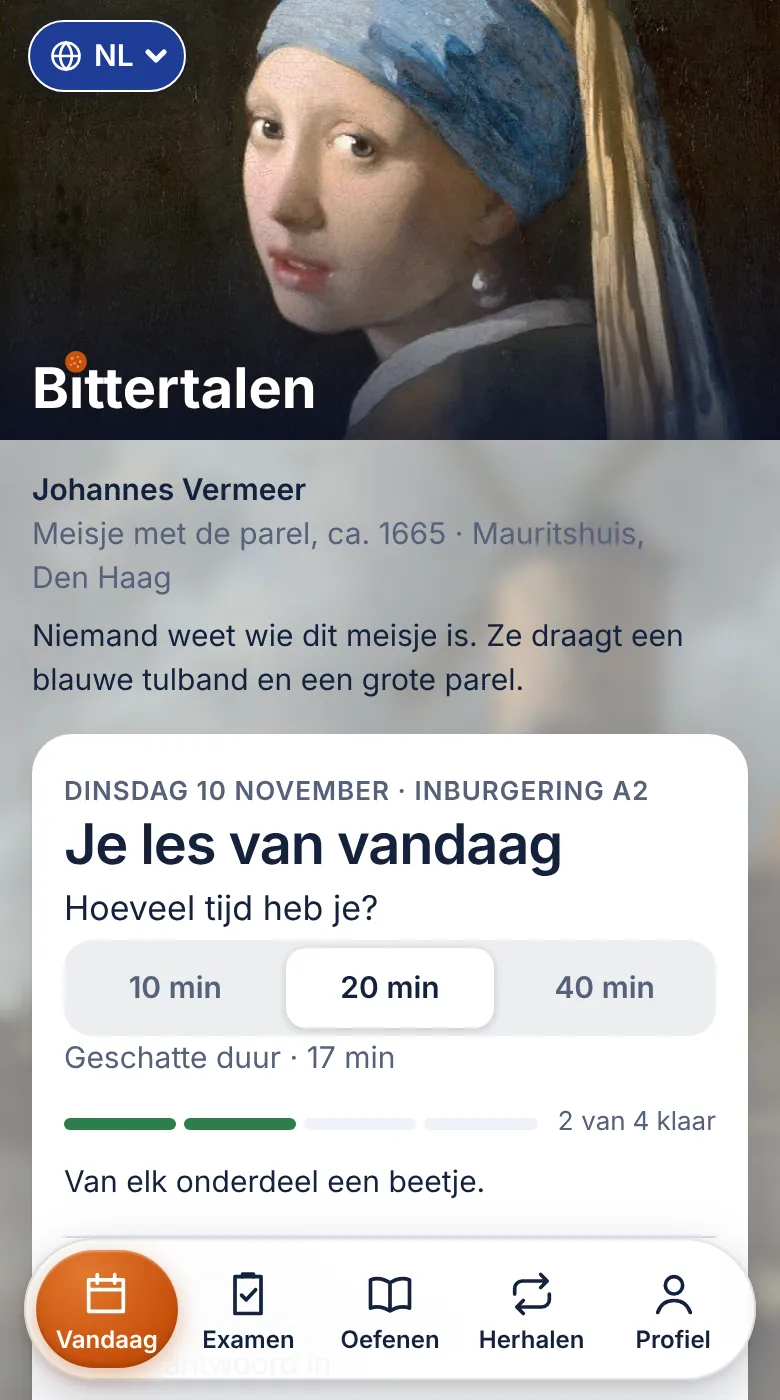
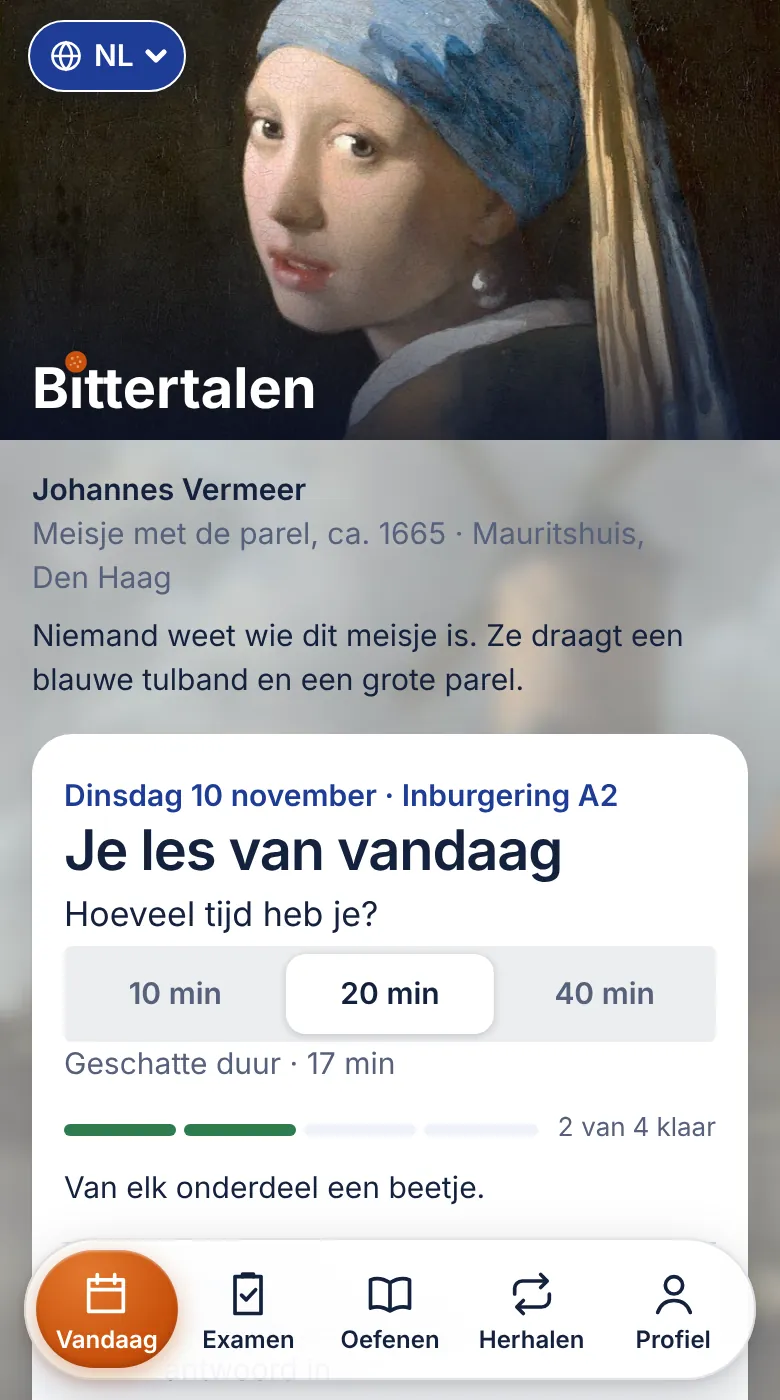
Examenblad: the exam form's look across the app and the homepage
The user chose "Examenblad" from four designs for the answer screen, as
the others still looked generated. Options are set like the exam form: a
letter A, B, C in a square box, rows between hairlines; a marked answer's
box turns green with a check or red with a cross while the text stays
ink, and a proefexamen choice fills it oranje. The feedback sheet is
square under an ink rule.

The rest follows: controls are nearly square (4 px, small things 3 px)
while tiles keep their round corners; labels are sentence case in cobalt
instead of small grey capitals. The homepage gets the same corners and
label, and its screenshots are retaken.

Claude-Session: https://claude.ai/code/session_0157tTv7UowioX1D2EjmBQZR

diff --git a/oefenen.html b/oefenen.html
@@ -37,7 +37,7 @@ if(navigator.serviceWorker){navigator.serviceWorker.addEventListener("message",f
    Type: the phone's own system font (SF Pro on iPhone), so it reads like a native app. */
 :root{
   /* round corners, as in the login window (the user's wish): tiles, controls (buttons, fields, options), small things */
-  --r:20px; --rc:14px; --rs:10px;
+  --r:20px; --rc:4px; --rs:3px;
   /* type, the iOS text styles: caption 12, footnote 13, subhead 15, body 17, title 3 20, title 2 22, title 1 28 */
   --fs-xs:12px; --fs-s:13px; --fs-m:15px; --fs-b:17px; --fs-l:20px; --fs-xl:22px; --fs-xxl:28px;
   --bg:#FBFCFE; --surface:#EEF2FA; --wash:#C9D6F2; --ink:#14213D; --soft:#56617C; --line:#D6DDEB;
@@ -144,7 +144,7 @@ h2{display:flex;align-items:center;gap:10px;font-size:var(--fs-xl);font-weight:6
 .ona{margin:0 0 12px;padding-inline-start:22px}.ona li{margin:0 0 6px}
 .step{display:grid;grid-template-columns:36px minmax(0,1fr) 36px;column-gap:14px;align-items:center;width:100%;height:100%;text-align:var(--ta);background:none;border:0;border-radius:0;padding:11px 0;color:var(--ink)}
 /* every step: its icon on a cobalt square (the next one: cobalt on white, a done one: a green check), title, line, › or ▶ */
-.step .sic{grid-row:1/3;width:36px;height:36px;border-radius:9px;background:var(--fill);color:#fff;display:flex;align-items:center;justify-content:center;font-style:normal;font-weight:600;font-size:var(--fs-m)}
+.step .sic{grid-row:1/3;width:36px;height:36px;border-radius:var(--rc);background:var(--fill);color:#fff;display:flex;align-items:center;justify-content:center;font-style:normal;font-weight:600;font-size:var(--fs-m)}
 .step .sic svg{width:20px;height:20px}
 .step.ok .sic{background:var(--good);color:#fff}
 .step b{font-size:var(--fs-b);font-weight:600;line-height:1.3}
@@ -157,7 +157,7 @@ h2{display:flex;align-items:center;gap:10px;font-size:var(--fs-xl);font-weight:6
 .list{display:grid;margin-top:8px;border-top:1px solid var(--line)}
 .it{display:flex;align-items:center;gap:12px;width:100%;min-height:56px;padding:11px 0 12px;text-align:var(--ta);background:none;border:0;border-bottom:1px solid var(--line);color:var(--ink)}
 .it>span{flex:1;min-width:0}
-.it .ic,.rd .ic{flex:none;display:flex;align-items:center;justify-content:center;width:34px;height:34px;border-radius:9px;background:var(--fill);color:#fff}
+.it .ic,.rd .ic{flex:none;display:flex;align-items:center;justify-content:center;width:34px;height:34px;border-radius:var(--rc);background:var(--fill);color:#fff}
 .ic svg,.sic svg{width:20px;height:20px;fill:currentColor;stroke:none}
 .ic svg .s,.sic svg .s{fill:none;stroke:currentColor;stroke-width:2.3;stroke-linecap:round;stroke-linejoin:round}
 .ic text{fill:currentColor;stroke:none;font:600 12px -apple-system,system-ui,sans-serif}
@@ -175,7 +175,8 @@ a.it{text-decoration:none} .it.ext::after{content:none}
 @media (hover:hover){.it:hover b{color:var(--blue)}}
 .itw{display:flex;align-items:center;gap:12px;border-bottom:1px solid var(--line)} .itw .it{border:0}
 /* kopje boven een groep: klein, kapitalen, zoals de vraag in een oefening */
-.lh{margin:26px 0 4px;color:var(--soft);font-size:var(--fs-s);font-weight:600;letter-spacing:.04em;text-transform:uppercase}
+.lh{margin:26px 0 4px;color:var(--blue);font-size:var(--fs-m);font-weight:600}
+.lh::first-letter,.ask::first-letter{text-transform:uppercase}
 /* naar het examen: one row per part starts its proefexamen; the name and time, the bar with the 70% line, the score, › */
 .rd{display:grid;grid-template-columns:34px minmax(0,1fr) auto 14px;column-gap:12px;row-gap:7px;align-items:center;width:100%;padding:13px 0;text-align:var(--ta);background:none;border:0;border-bottom:1px solid var(--line);color:var(--ink)}
 /* a part: its icon, the name and minutes, the score on the right; under it the bar with the pass line and the status */
@@ -233,11 +234,11 @@ main:has(#home:not([hidden])){padding-bottom:116px}
 .top{display:flex;justify-content:space-between;align-items:center;margin:14px 0 0}
 .back{display:inline-flex;align-items:center;gap:6px;min-height:44px;background:none;border:1px solid var(--line);color:var(--ink);font-weight:600;font-size:var(--fs-b);padding-block:5px 6px;padding-inline:10px 14px;border-radius:var(--rc)}
 .back span{font-size:20px;line-height:1}
-#timer,.rec .t{font-weight:700;font-variant-numeric:tabular-nums;color:var(--oranje);border:1.5px solid var(--oranje);padding:2px 9px;border-radius:8px}
+#timer,.rec .t{font-weight:700;font-variant-numeric:tabular-nums;color:var(--oranje);border:1.5px solid var(--oranje);padding:2px 9px;border-radius:var(--rs)}
 #timer:empty{display:none}
 .bar{height:6px;background:var(--surface);overflow:hidden;border-radius:999px;margin:14px 0 22px}
 .bar i{display:block;height:100%;width:0;transition:width .3s;background:var(--blue)}
-.ask{color:var(--soft);font-size:var(--fs-s);font-weight:600;letter-spacing:.04em;text-transform:uppercase;margin:0}
+.ask{color:var(--blue);font-size:var(--fs-m);font-weight:600;margin:0}
 .verb{font-size:44px;font-weight:700;letter-spacing:-.02em;line-height:1.08;margin:6px 0 2px;word-break:break-word}
 .verb.long{font-size:var(--fs-l);font-weight:600;line-height:1.35;letter-spacing:-.01em;margin:8px 0 12px}
 .ru{color:var(--soft);margin:0 0 18px}
@@ -246,19 +247,27 @@ main:has(#home:not([hidden])){padding-bottom:116px}
 .opts{display:grid;grid-template-columns:1fr 1fr;gap:10px}
 .opt{background:var(--bg);color:var(--ink);border:1px solid var(--line);border-radius:var(--rc);padding:14px 8px;font-size:var(--fs-l);font-weight:600;min-height:60px;word-break:break-word}
 .opt:active{border-color:var(--blue)}
-/* three options: one grouped list like the iPhone's Settings (separate tinted boxes with coloured borders looked
-   generated), rows with a line between them */
-.opts.one{grid-template-columns:1fr;gap:0;background:var(--surface);border-radius:var(--rc);overflow:hidden}
-.opts.one .opt{display:flex;align-items:center;gap:12px;font-size:var(--fs-b);font-weight:400;text-align:var(--ta);padding:14px 16px;min-height:52px;background:none;border:0;border-radius:0;border-bottom:1px solid var(--line)}
+/* Examenblad (the user's choice): three options as on the exam form, a letter in a square box, rows between hairlines;
+   marked: the box turns green or red with ✓ or ✕, the text stays ink; the other options fade. A choice in a
+   proefexamen fills the box oranje. (Solid fills, tinted boxes and a grouped grey list all looked generated.) */
+.opts.one{grid-template-columns:1fr;gap:0;border-top:1px solid var(--line);border-bottom:1px solid var(--line)}
+.opts.one .opt{display:flex;align-items:center;gap:14px;font-size:var(--fs-b);font-weight:400;text-align:var(--ta);padding:12px 0;min-height:56px;background:none;border:0;border-radius:0;border-bottom:1px solid var(--line)}
 .opts.one .opt:last-child{border-bottom:0}
-.opts.one .opt:active{background:color-mix(in srgb,var(--ink) 7%,transparent)}
-/* marked, like a checkmark on iPhone: the colour on the text and a ✓ or ✕ at the end; the other options fade */
+.opt .lt{flex:none;width:30px;height:30px;display:grid;place-items:center;border:1.5px solid var(--ink);border-radius:var(--rs);font-size:var(--fs-m);font-weight:700;color:var(--ink)}
+.opt .tx{min-width:0}
+@media (hover:hover){.opts.one .opt:not(:disabled):hover .lt{border-color:var(--blue);color:var(--blue)}}
+.opts.one .opt:active .lt{background:var(--surface)}
+.opt.ok .lt,.opt.no .lt,.opt.sel .lt{font-size:0;color:#fff}
+.opt.ok .lt{background:var(--good);border-color:var(--good)} .opt.no .lt{background:var(--bad);border-color:var(--bad)}
+.opt.ok .lt::before{content:"✓";font-size:var(--fs-m)} .opt.no .lt::before{content:"✕";font-size:var(--fs-m)}
+.opt.sel .lt{background:var(--oranje);border-color:var(--oranje);font-size:var(--fs-m)}
+/* short options (two columns) stay boxes; marked: coloured border and text with ✓ or ✕ */
 .opt.ok,.opt.no{background:none}
 .opt.ok{color:var(--good);border-color:var(--good);font-weight:600}
 .opt.no{color:var(--bad);border-color:var(--bad)}
-.opts.one .opt.ok,.opts.one .opt.no{border-color:var(--line)}
-.opt.ok::after,.opt.no::after{margin-inline-start:auto;padding-inline-start:6px;font-weight:700}
-.opt.ok::after{content:"✓"} .opt.no::after{content:"✕"}
+.opts.one .opt.ok,.opts.one .opt.no{color:var(--ink);font-weight:400}
+.opts:not(.one) .opt.ok::after,.opts:not(.one) .opt.no::after{padding-inline-start:6px;font-weight:700}
+.opts:not(.one) .opt.ok::after{content:"✓"} .opts:not(.one) .opt.no::after{content:"✕"}
 .opt:disabled:not(.ok,.no){opacity:.45}
 .opt:disabled{cursor:default}
 .type{display:flex;gap:8px}
@@ -306,7 +315,6 @@ textarea{display:block;width:100%;font-size:var(--fs-b);line-height:1.5;padding:
 .two{display:grid;grid-template-columns:1fr 1fr;gap:10px}
 .opt.sel{border-color:var(--oranje);box-shadow:inset 0 0 0 2px var(--oranje)}
 .opts.one .opt.sel{box-shadow:none;border-color:var(--line);font-weight:600}
-.opt.sel::after{content:"";display:inline-block;flex:none;margin-inline-start:auto;width:10px;height:10px;border-radius:50%;background:var(--oranje)}
 .exnav{display:grid;grid-template-columns:1fr 1fr 1.2fr;gap:8px;margin-top:16px} .exnav button{padding:11px 6px}
 .ovw{display:grid;grid-template-columns:repeat(auto-fill,minmax(46px,1fr));gap:6px;margin:12px 0 16px}
 .ovw button{min-height:46px;background:var(--bg);color:var(--ink);border:1.5px solid var(--line);border-radius:var(--rs);font-weight:600;font-variant-numeric:tabular-nums}
@@ -323,7 +331,7 @@ textarea{display:block;width:100%;font-size:var(--fs-b);line-height:1.5;padding:
 .fbh i{display:none}
 .fbh b{font-size:var(--fs-l);font-weight:600}
 .ok .fbh i{background:var(--good)} .no .fbh i{background:var(--bad)}
-.fb.sheet .btn{margin-top:6px} #card>.fb.sheet{border-radius:var(--r) var(--r) 0 0}
+.fb.sheet .btn{margin-top:6px} #card>.fb.sheet{border-radius:0;border-top:2px solid var(--ink)}
 /* focus while practising: no painting, only ✕, the progress and the clock */
 main:has(#play:not([hidden])) header{display:none}
 #play .top{gap:12px;margin:14px 0 22px}
@@ -2357,7 +2365,8 @@ function show(){
     ${cur.exam?"":`${SR?`<button class="ghost wide" id="spchk" style="margin-bottom:10px">Spreek in en laat nakijken</button>${acc.cfg&&!acc.user?(acc.cfg.free?freeNote():`<p class="note">Nakijken kan als je bent ingelogd (Profiel).</p>`):""}`:""}<button class="ghost wide" id="rev">Toon voorbeeld</button>`}`;
   else if(S.typing&&q.canType)h+=`<div class="type"><input id="inp" autocomplete="off" autocapitalize="off" autocorrect="off" spellcheck="false" aria-label="Je antwoord"><button class="btn" id="chk">Controleer</button></div>`;
   else{const nv=cur.nav&&q.type==="choice";o=nv?cur.op[pos]=cur.op[pos]||q.opts():q.opts();const C=x=>capA(q,x);
-    h+=`<div class="opts${o.length===3||o.some(x=>x.length>14)?" one":""}">${o.map((x,i)=>`<button class="opt${nv&&cur.pick[pos]===x?" sel":""}" data-n="${i}"${nv?` aria-pressed="${cur.pick[pos]===x}"`:""}>${C(x)}</button>`).join("")}</div>`;
+    const one=o.length===3||o.some(x=>x.length>14);
+    h+=`<div class="opts${one?" one":""}">${o.map((x,i)=>`<button class="opt${nv&&cur.pick[pos]===x?" sel":""}" data-n="${i}"${nv?` aria-pressed="${cur.pick[pos]===x}"`:""}>${one?optLt(i,C(x)):C(x)}</button>`).join("")}</div>`;
     if(nv)h+=navHTML()}
   h+=`<div class="fb" id="fb"></div>`;
   $("card").innerHTML=h; const cd=$("card");cd.classList.remove("in");void cd.offsetWidth;cd.classList.add("in");
@@ -2431,6 +2440,8 @@ function buzz(k){
 }
 // Answers to a question (KNM, reading, listening, history) start with a capital letter on screen; the stored answer
 // stays as it is, so checking is unchanged. Grammar options don't: there the option fills a gap inside a sentence.
+// an option on the exam form: its letter (not read aloud) and its text
+const optLt=(i,x)=>`<span class="lt" aria-hidden="true">${"ABCDEF"[i]}</span><span class="tx">${x}</span>`;
 const CAPSEC=new Set(["knm","lz","l1","ls","lb","gs"]);
 const capA=(q,s)=>CAPSEC.has(q.sec)?String(s).replace(/^((?:\s|<[^>]+>)*)(\p{Ll})/u,(m,a,c)=>a+c.toUpperCase()):s;
 function feedback(ok,q){
@@ -3218,7 +3229,7 @@ function startTest(){
     i<START.length?draw():end()};
   const draw=()=>{const q=START[i],o=shuffle(q.slice(2,5)),go=pick(q);
     $("tbody").innerHTML=`<p class="ask">Vraag ${i+1} van ${START.length}</p><p class="bgq bgl" lang="nl">${q[1]}</p>
-      <div class="opts one bgl" lang="nl">${o.map((x,j)=>`<button class="opt" data-n="${j}">${x}</button>`).join("")}</div>
+      <div class="opts one bgl" lang="nl">${o.map((x,j)=>`<button class="opt" data-n="${j}">${optLt(j,x)}</button>`).join("")}</div>
       <button class="ghost wide" id="bgn" style="margin-top:12px">Ik weet het niet</button>`;
     document.querySelectorAll("#tbody .opt").forEach(b=>b.onclick=()=>go(o[b.dataset.n]===q[2]));
     $("bgn").onclick=()=>go(false);

diff --git a/landing.css b/landing.css
@@ -28,16 +28,17 @@ a {color:inherit}
 .nav a,.footer a {text-decoration:none;color:var(--muted);font-size:15px}
 .nav a:hover,.footer a:hover {text-decoration:underline}
 .button,.language {font:inherit;font-size:15px}
-.language {display:inline-flex;align-items:center;justify-content:center;gap:5px;min-width:59px;min-height:44px;position:relative;border:1px solid var(--line);border-radius:14px;padding-inline:8px;background:var(--card)}
+.language {display:inline-flex;align-items:center;justify-content:center;gap:5px;min-width:59px;min-height:44px;position:relative;border:1px solid var(--line);border-radius:4px;padding-inline:8px;background:var(--card)}
 .language:focus-within {outline:3px solid var(--blue);outline-offset:4px}
 .language select {position:absolute;inset:0;width:100%;height:100%;opacity:0;cursor:pointer}
-.button {display:inline-flex;align-items:center;justify-content:center;min-height:48px;padding:10px 17px;border:1px solid transparent;border-radius:14px;text-decoration:none;font-weight:600;text-align:center}
+.button {display:inline-flex;align-items:center;justify-content:center;min-height:48px;padding:10px 17px;border:1px solid transparent;border-radius:4px;text-decoration:none;font-weight:600;text-align:center}
 .primary {background:var(--fill);color:#fff}
 .primary:hover {filter:brightness(1.14)}
 .outline {border-color:var(--line);background:var(--card)}
 .outline:hover {background:var(--wash)}
 .hero {display:grid;grid-template-columns:1.09fr 1fr;gap:clamp(28px,5vw,76px);align-items:center;padding-block:48px 54px}
-.eyebrow {font-size:13px;letter-spacing:.06em;font-weight:600;color:var(--muted);margin:0 0 14px}
+/* labels like the app's (Examenblad): sentence case in cobalt */
+.eyebrow {font-size:15px;font-weight:600;color:var(--blue);margin:0 0 14px}
 h1,h2,h3 {line-height:1.12;font-weight:650;margin:0;overflow-wrap:anywhere}
 h1 {font-size:clamp(36px,5vw,62px);font-weight:700;letter-spacing:-.03em;max-width:14ch}
 h2 {font-size:clamp(28px,3.2vw,40px);letter-spacing:-.035em;margin-block-end:20px}
@@ -62,7 +63,7 @@ h3 {font-size:22px;letter-spacing:-.02em}
 .card p {color:var(--muted);margin:10px 0 0}
 .level,.pricing .card {display:flex;flex-direction:column;align-items:flex-start}
 /* like the app's rows: a white glyph on a cobalt square */
-.badge,.symbol {display:grid;place-items:center;width:40px;height:40px;border-radius:11px;margin-bottom:16px;color:#fff;background:var(--fill)}
+.badge,.symbol {display:grid;place-items:center;width:40px;height:40px;border-radius:4px;margin-bottom:16px;color:#fff;background:var(--fill)}
 .badge {font-weight:700}
 .symbol {padding:9px;fill:none;stroke:currentColor;stroke-width:2;stroke-linecap:round;stroke-linejoin:round}
 .text-link {display:inline-flex;align-items:center;gap:8px;margin-block-start:auto;padding-block-start:16px;color:var(--blue);font-weight:650;text-decoration:none}
@@ -77,7 +78,7 @@ h3 {font-size:22px;letter-spacing:-.02em}
 .closing {display:flex;align-items:center;gap:20px;background:var(--card);box-shadow:var(--shadow);border-radius:20px;padding:22px 30px;margin-block-end:32px}
 .closing .mascot {flex:none;width:88px;height:88px;border-radius:50%;object-fit:cover;background:#fff}
 .closing-text {flex:1;min-width:0}
-.bubble {display:inline-block;margin:0 0 6px;padding:5px 12px;border-radius:999px;background:var(--wash);font-size:15px;font-weight:600}
+.bubble {display:inline-block;margin:0 0 6px;padding:5px 12px;border-radius:4px;background:var(--wash);font-size:15px;font-weight:600}
 .closing h2 {margin:0;font-size:clamp(24px,3vw,32px)}
 .closing .button {flex:none}
 .footer {padding-block:20px 30px;border-top:1px solid color-mix(in srgb,var(--ink) 12%,transparent)}

diff --git a/landing.js b/landing.js
@@ -5,7 +5,7 @@ const copy = {
   "Zo werkt het": ["How it works", "كيف يعمل", "Nasıl çalışır?", "यह कैसे काम करता है", "使用方法","Cómo funciona","Как это работает"],
   "Prijzen": ["Pricing", "الأسعار", "Fiyatlar", "कीमतें", "价格","Precios","Цены"],
   "Inloggen": ["Sign in", "تسجيل الدخول", "Giriş yap", "लॉग इन", "登录","Iniciar sesión","Войти"],
-  "NEDERLANDS A2 & B1": ["DUTCH A2 & B1", "الهولندية A2 وB1", "A2 VE B1 FLEMENKÇE", "डच A2 और B1", "荷兰语 A2 和 B1","NEERLANDÉS A2 Y B1","НИДЕРЛАНДСКИЙ A2 И B1"],
+  "Nederlands A2 & B1": ["Dutch A2 & B1", "الهولندية A2 وB1", "A2 ve B1 Flemenkçe", "डच A2 और B1", "荷兰语 A2 和 B1","Neerlandés A2 y B1","Нидерландский A2 и B1"],
   "Oefen Nederlands op jouw tempo.": ["Practise Dutch at your own pace.", "تدرّب على الهولندية بالسرعة التي تناسبك.", "Kendi hızında Flemenkçe çalış.", "अपनी गति से डच का अभ्यास करें।", "按自己的节奏练习荷兰语。","Practica neerlandés a tu ritmo.","Занимайтесь нидерландским в своём темпе."],
   "Bereid je voor op je inburgeringsexamen of Staatsexamen NT2. Doe een korte les, oefen een onderdeel of maak een proefexamen met een timer.": ["Prepare for the civic integration exam or the NT2 state exam. Take a short lesson, practise one skill or try a timed mock exam.", "استعد لامتحان الاندماج أو امتحان الدولة NT2. خذ درسًا قصيرًا أو تدرّب على مهارة واحدة أو جرّب اختبارًا تجريبيًا محدد الوقت.", "Uyum sınavına veya NT2 devlet sınavına hazırlan. Kısa bir ders yap, bir beceriye çalış ya da süreli deneme sınavına gir.", "नागरिक एकीकरण परीक्षा या NT2 राज्य परीक्षा की तैयारी करें। छोटा पाठ लें, किसी एक कौशल का अभ्यास करें या समय सीमा वाली अभ्यास परीक्षा दें।", "为公民融入考试或 NT2 国家考试做准备。上一节短课、练习一项技能，或做一次限时模拟考试。","Prepárate para el examen de integración o el examen estatal NT2. Haz una lección breve, practica una sección o prueba un simulacro cronometrado.","Готовьтесь к интеграционному экзамену или государственному экзамену NT2. Пройдите короткий урок, потренируйте один раздел или попробуйте пробный экзамен на время."],
   "Probeer één vraag": ["Try one question", "جرّب سؤالًا واحدًا", "Bir soru dene", "एक सवाल आज़माएँ", "试做一道题","Probar una pregunta","Попробовать одно задание"],

diff --git a/index.html b/index.html
@@ -58,7 +58,7 @@
 <main class="wrap">
   <section class="hero" aria-labelledby="intro">
     <div class="hero-copy">
-      <p class="eyebrow" data-t>NEDERLANDS A2 &amp; B1</p>
+      <p class="eyebrow" data-t>Nederlands A2 &amp; B1</p>
       <h1 id="intro" data-t>Oefen Nederlands op jouw tempo.</h1>
       <p class="lead" data-t>Bereid je voor op je inburgeringsexamen of Staatsexamen NT2. Doe een korte les, oefen een onderdeel of maak een proefexamen met een timer.</p>
       <div class="actions hero-actions">

diff --git a/CLAUDE.md b/CLAUDE.md
@@ -77,7 +77,7 @@ generic "AI app" look.
   app reads like a native iPhone app. No web fonts; headings semibold (600–700), never 800.
   No handwriting or decorative fonts.
 - **The login window's look, everywhere** (the user liked its type and colours): headings in `--ink`, semibold (600),
-  no diamond; small labels (`h3.lh`, `.ask`) in `--soft`; cobalt only on the main action (`.btn`) and
+  no diamond; small labels (`h3.lh`, `.ask`) in cobalt (`--blue`), sentence case, 15 px, never small capitals; cobalt only on the main action (`.btn`) and
   in icons; secondary buttons (`.ghost`, `.back`) are neutral: 1px `--line` border, `--ink` text; chevrons › in
   `--soft`; fields have a 1.5px `--ink` border, 52px high; the level switch (`.seg`) is a grey track with a white
   thumb, like iOS.
@@ -86,10 +86,10 @@ generic "AI app" look.
   buttons, fields, documents), `--fs-l` 20 (options, long questions, feedback), `--fs-xl` 22 (h2), `--fs-xxl` 28 (today's
   lesson). Only display sizes stay their own (the logo, the big word 44, the score 72, the streak ribbon, the reader). Weights
   600, 700 only for the logo, the big word and the score. Headings a little tighter (-.01em to -.02em).
-- **Shapes**: round corners, as in the login window the user liked (it looks livelier): tokens on `:root`, `--r` 20px
-  for tiles and inner screens, `--rc` 14px for controls (buttons, fields, options, steps, the level switch, documents,
-  photos), `--rs` 10px for small things (icon squares, word tokens, small buttons), 8px for the tiniest (numbers, the
-  timer); bars are pills, the feedback sheet has round top corners. Use the tokens, not new numbers. Solid 1px
+- **Shapes** ("Examenblad", the user's choice in November 2026, from four designs: it looks like the exam form and not
+  generated): tiles and inner screens keep round corners (`--r` 20px; the login window 24px), everything inside is nearly
+  square: `--rc` 4px for controls (buttons, fields, options, the level switch, documents, photos, icon squares), `--rs`
+  3px for small things (letter boxes, word tokens, the timer); bars are pills, the feedback sheet has round top corners. Use the tokens, not new numbers. Solid 1px
   separators, flat buttons. The floating tab bar is a glass pill (like iOS 26 and Instagram); the login window
   (`#welcome`) is a card like Yandex ID (24px).
 - **Logo**: the name "Bittertalen" in the system font, with a bitterbal (`--oranje`, light crumbs) as the dot on
@@ -203,12 +203,13 @@ Every section appears once; don't add a second entry point to the same exercise.
 - **Practising is a focus screen** (`#play`): no painting, one row with ✕ (back to where you came from; in a
   proefexamen the first tap or swipe back only asks "Stoppen?" and the page springs back), the progress bar, the count (3/10) and the clock. The main
   button (`.act`), the exam buttons (`.exnav`) and the feedback stick to the bottom of the screen, under the thumb.
-  Three options are one grouped list like the iPhone's Settings (`.opts.one`: rows with a line between them on a grey
-  group). Marked like a checkmark on iPhone: the colour on the text and ✓ / ✕ at the end, the other options fade; a
-  choice in a proefexamen gets an oranje dot at the end. The feedback is a plain sheet (`.fb.sheet`): "Goed zo!" or
+  Three options are set like the exam form (`.opts.one`, `optLt()`): a letter A, B, C in a square box, rows between
+  hairlines. Marked: the box turns green with ✓ or red with ✕, the text stays ink, the other options fade; a choice in a
+  proefexamen fills the box oranje. Answers to KNM, reading, listening and history questions start with a capital on
+  screen (`capA()`); grammar options keep their case. The feedback is a plain, square sheet under a 2px ink rule (`.fb.sheet`): "Goed zo!" or
   "Niet goed" in colour, for a wrong answer "Goed is: <answer>" in ink, why, and Verder. The user found the earlier
   versions generated-looking: solid green and red fills, then separate tinted boxes with coloured borders, ✓ / ✕ in
-  front and a tinted sheet; don't go back to either.
+  front and a tinted sheet, then a grouped grey list; don't go back to any of them.
 
 ## Words, motion, touch
 
